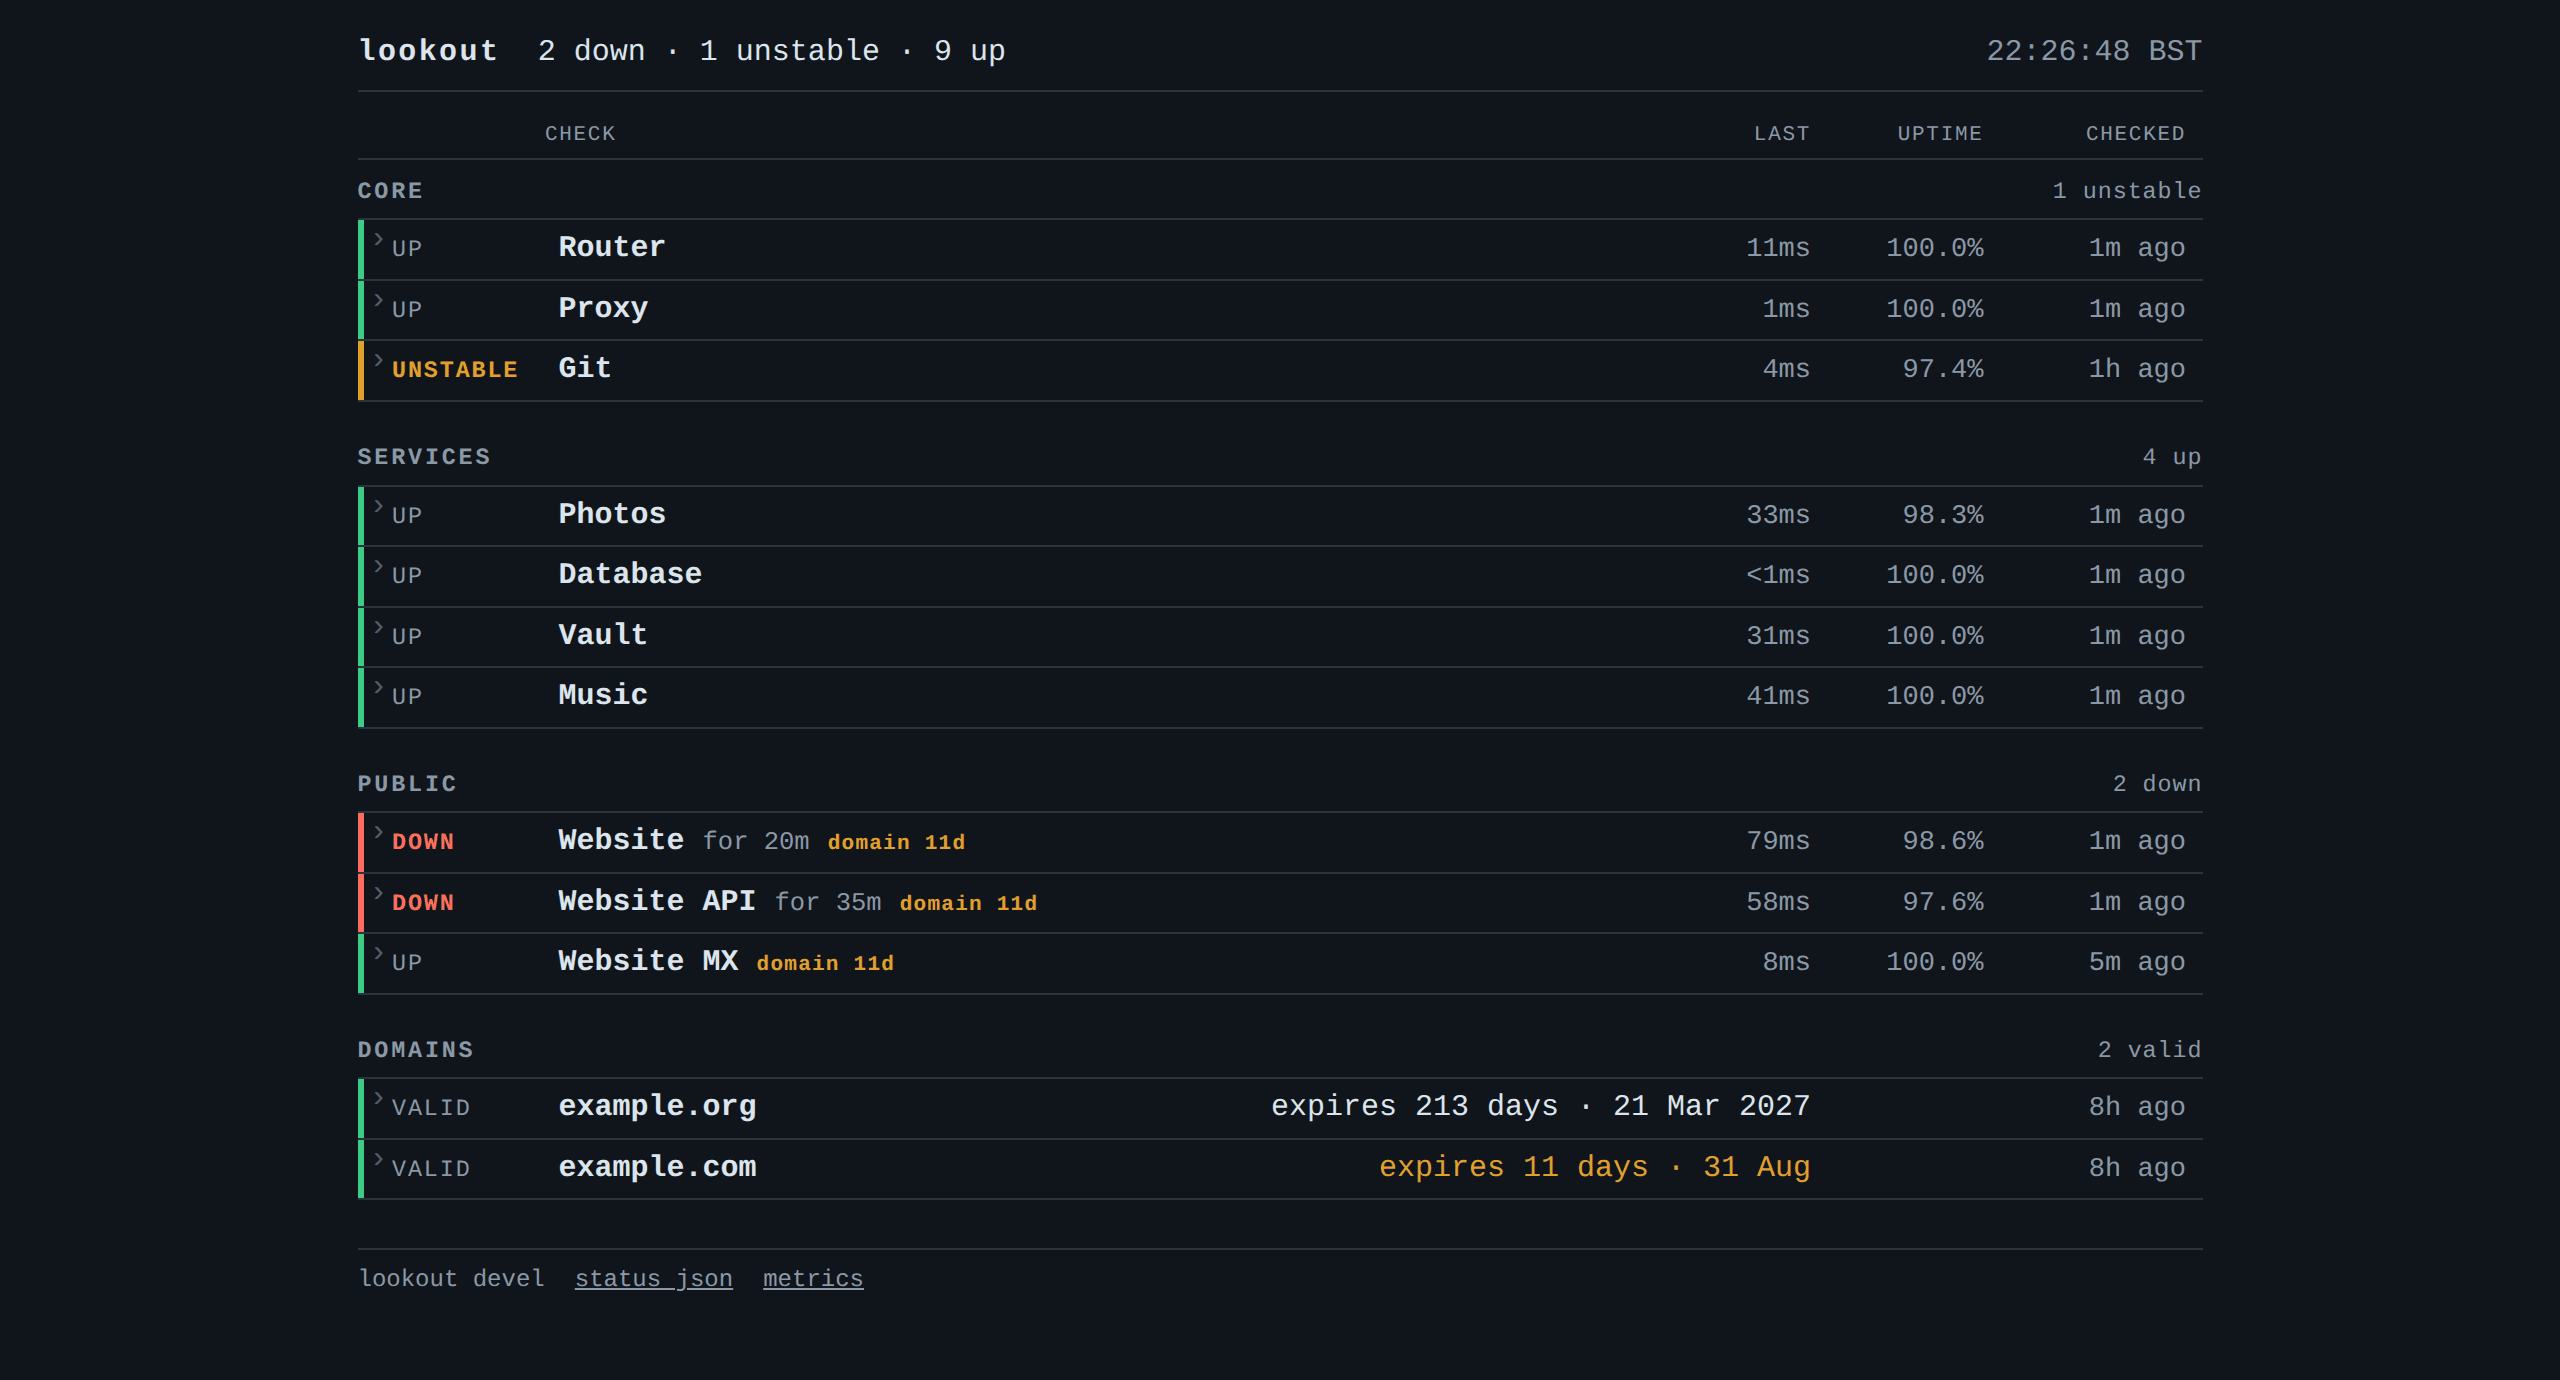
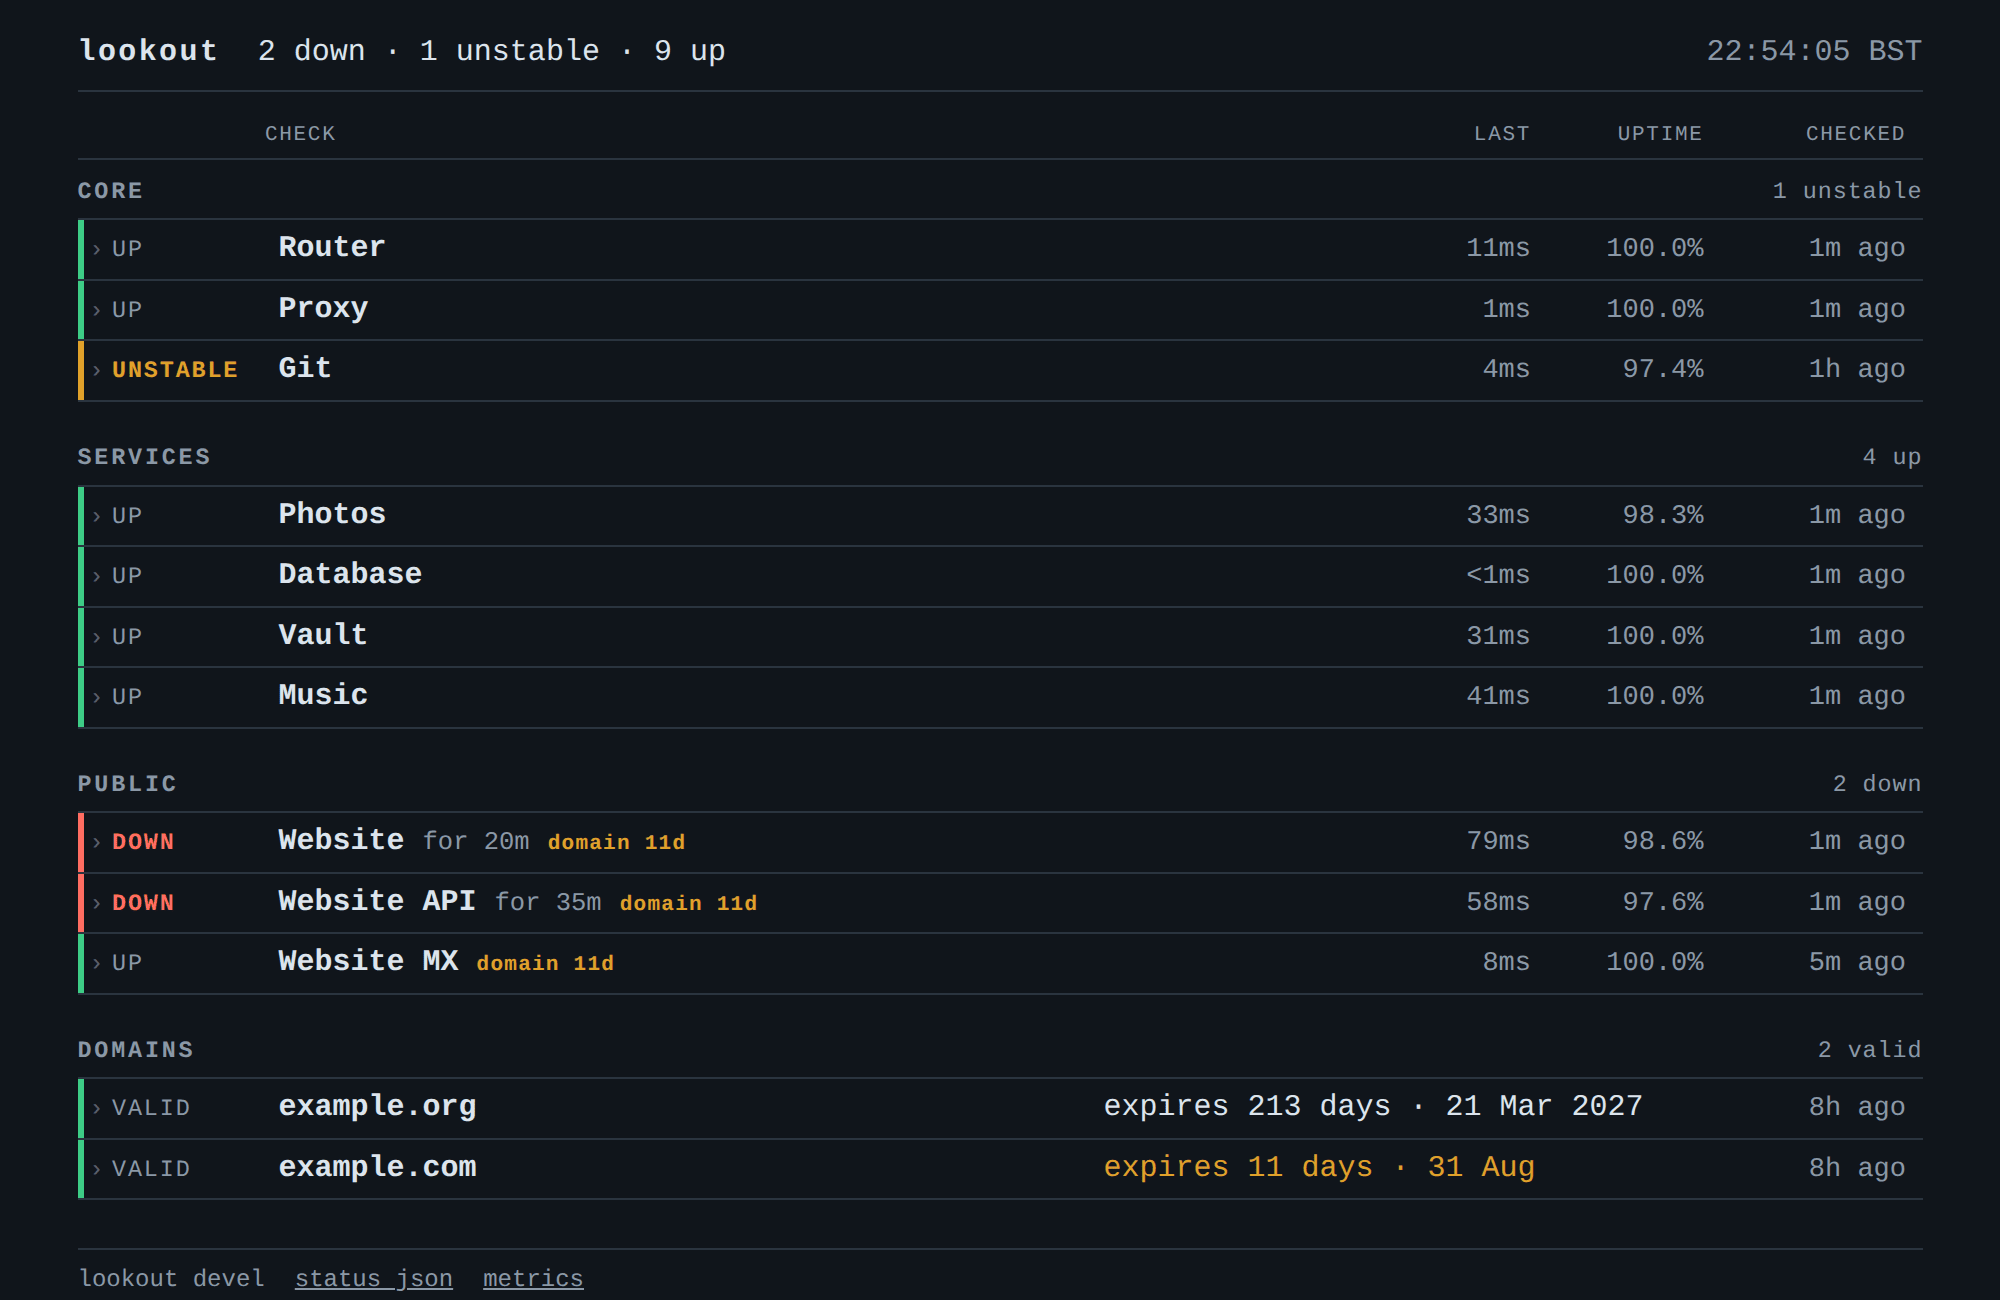
Put the disclosure mark on a baseline and the dates in a column
Three things looked arbitrary because they were. The mark that says a row
opens was positioned against the top of the row rather than against any
text, so it sat at a different height on every row whose tallest cell
differed; it now hangs off the status word and shares its baseline by
construction.

Every row is its own grid, so an auto-sized cell is only as wide as its own
contents and lines up with nothing above it. That left "expires 11 days"
and "expires 213 days" starting in different places, reading as two ragged
scraps instead of a column of sentences. Registration rows get a grid of
their own now, with a definite column for the sentence and the same last
column as every other row, so "8h ago" still lines up with "1m ago".

The two-column panel is reverted. A definition list is read top to bottom,
and pairing the facts two across put "down since" and "last failure" side
by side in the wrong order, wrapped "worst 304ms" onto a line of its own,
and left the last fact alone beside a hole — the same emptiness it was
meant to remove, only smaller. Whitespace to the right of a text block is
what text looks like.

Also a container image, because most people who would run this run things
in compose: static binary on scratch, a CA bundle, nobody as the user.

diff --git a/internal/web/page.css b/internal/web/page.css
@@ -169,15 +169,23 @@ h2 {
    that says "this opens" without becoming a second thing to aim at. */
 .summary:hover { background: var(--panel); }
 
-.summary::after {
+/* The mark hangs off the status word rather than being positioned in the
+   row, so it shares that word's baseline by construction. Absolutely
+   positioned, it sat on the top of the row instead, which put it at a
+   different height on every row whose tallest cell differed. The fixed
+   width keeps the word from shifting when the row opens. */
+.st::before {
   content: "\203A";
-  position: absolute;
-  left: 0.4rem;
+  display: inline-block;
+  width: 0.45rem;
+  margin-left: -0.75rem;
+  margin-right: 0.3rem;
   color: var(--mute);
-  opacity: 0.55;
+  opacity: 0.6;
+  font-weight: 400;
 }
 
-.toggle:checked ~ .summary::after { content: "\2304"; }
+.toggle:checked ~ .summary .st::before { content: "\2304"; }
 
 .panel { display: none; }
 .toggle:checked ~ .panel { display: block; }
@@ -214,14 +222,22 @@ h2 {
 .note { color: var(--mute); font-size: 0.85rem; font-weight: 400; }
 
 /* A registration has no response time and no daily uptime; it has a date.
-   It gets the middle column and stops before the numeric ones: a sentence
-   sitting under headings that read "last" and "uptime" is a mislabel, and
-   the sticky header exists to stop exactly that. */
+   Every row is its own grid, so an auto-sized cell is as wide as its own
+   text and nothing lines up with the row above: "expires 11 days" and
+   "expires 213 days" ended up starting at different places, which reads as
+   two ragged right-aligned scraps rather than a column of sentences.
+   Registration rows therefore get a grid of their own, with a definite
+   column for the sentence and the same last column as everyone else, so
+   "8h ago" still lines up with "1m ago" one row up. */
+.summary.reg { grid-template-columns: 4.8rem minmax(6rem, 1fr) 20rem 6rem; }
+
 .wide {
-  grid-column: 3 / span 2;
+  grid-column: 3;
   text-align: left;
   white-space: nowrap;
 }
+
+.reg .ago { grid-column: 4; }
 
 /* Column 3 holds nothing on an ordinary row, so the numbers are placed by
    hand rather than flowed. Auto-placement would put them wherever the count
@@ -324,13 +340,12 @@ dd a:hover { text-decoration-color: currentColor; }
 
 .inc { display: block; }
 
-/* Two facts fit across a panel this wide, and one fact per line made the
-   panel twice as tall as its content. A URL and a stack of outages still
-   take the full width: they are the two that do not fit in half of one. */
-@media (min-width: 60rem) {
-  dl { grid-template-columns: 7rem minmax(0, 1fr) 7rem minmax(0, 1fr); }
-  dd.full { grid-column: 2 / -1; }
-}
+/* Two columns were tried here and reverted. A definition list is read top
+   to bottom; pairing the facts two across made "down since" and "last
+   failure" sit side by side in the wrong order, wrapped "worst 304ms" onto
+   a line of its own, and left the last fact alone beside a hole — the same
+   emptiness the change was meant to remove, only smaller. Whitespace to the
+   right of a text block is what text looks like. */
 
 footer {
   display: flex;

diff --git a/internal/web/page.html b/internal/web/page.html
@@ -46,7 +46,7 @@
   {{range .Rows}}
   <div class="row {{.RowClass}}" id="{{.ID}}">
     <input class="toggle" type="checkbox" id="t-{{.ID}}">
-    <label class="summary" for="t-{{.ID}}">
+    <label class="summary{{if .Wide}} reg{{end}}" for="t-{{.ID}}">
       <span class="st">{{.Label}}</span>
       <span class="nm">{{.Name}}{{if .Note}} <span class="note">{{.Note}}</span>{{end}}{{if .Badge}} <span class="tag {{.BadgeClass}}">{{.Badge}}</span>{{end}}{{if .Muted}} <span class="tag">muted</span>{{end}}</span>
       {{if .Wide}}<span class="wide {{.WideClass}}">{{.Wide}}</span>{{else}}<span class="num lat">{{.Latency}}</span>
@@ -62,11 +62,11 @@
       <div class="axis"><span>24h ago</span><span>now</span></div>
       {{end}}
       <dl>
-        {{if .Link}}<dt>watching</dt><dd class="full"><a href="{{.Link}}" rel="noreferrer noopener" target="_blank">{{.Link}}</a></dd>{{end}}
+        {{if .Link}}<dt>watching</dt><dd><a href="{{.Link}}" rel="noreferrer noopener" target="_blank">{{.Link}}</a></dd>{{end}}
         {{range .Facts}}<dt>{{.Label}}</dt><dd>{{.Value}}</dd>{{end}}
         {{if .Incidents}}
         <dt>outages</dt>
-        <dd class="full">
+        <dd>
           {{range .Incidents}}<span class="inc">{{.When}} · {{.For}}{{if .Reason}} · {{.Reason}}{{end}}</span>{{end}}
         </dd>
         {{end}}

diff --git a/README.md b/README.md
@@ -1,15 +1,11 @@
 # lookout
 
-A small uptime monitor. It probes the things you list in a YAML file, keeps a
-day of history in memory and a year of it on disk, shows a page you can read at
-a glance, and sends a message when something breaks.
-
-One static Go binary, two dependencies, no database, no agent, no container
-required. It fits on the smallest machine you own.
+A lightweight uptime monitor in Go. One static binary watches your services and
+tells you when one breaks.
 
 <picture>
-  <source media="(prefers-color-scheme: dark)" srcset="docs/board-dark.png">
-  <img alt="The lookout status board" src="docs/board-light.png">
+  <source media="(prefers-color-scheme: light)" srcset="docs/board-light.png">
+  <img alt="The lookout status board" src="docs/board-dark.png">
 </picture>
 
 ## Try it
@@ -31,9 +27,22 @@ cp config.example.yaml config.yaml    # edit it
 ./lookout run config.yaml
 ```
 
-`config.example.yaml` is the reference: every option is in it, with a comment
-saying what it is for. `validate` reports every problem at once, with the line
-each one is on, and `run` will not start on a config that does not pass.
+Or as a container:
+
+```sh
+docker run -d --name lookout \
+  -p 5665:5665 \
+  -v $PWD/config.yaml:/etc/lookout/config.yaml:ro \
+  -v lookout-state:/var/lib/lookout \
+  -e LOOKOUT_TELEGRAM_TOKEN -e LOOKOUT_TELEGRAM_CHAT_ID \
+  ghcr.io/eeegoloauq/lookout:latest
+```
+
+Configuration is one YAML file, and `config.example.yaml` is its reference:
+every option is in it with a comment saying what it is for. `validate` reports
+every problem at once with the line each one is on, and `run` refuses to start
+on a config that does not pass — a monitor that dies at 2am because of a typo
+is a monitor that was not watching.
 
 ## What it checks
 
@@ -77,8 +86,8 @@ as one summary when the mute lifts.
 ## The page
 
 <picture>
-  <source media="(prefers-color-scheme: dark)" srcset="docs/detail-dark.png">
-  <img alt="A check expanded to show why it failed" src="docs/detail-light.png">
+  <source media="(prefers-color-scheme: light)" srcset="docs/detail-light.png">
+  <img alt="A check expanded to show why it failed" src="docs/detail-dark.png">
 </picture>
 
 Every row opens into what the check watches, when it broke, what it said, uptime
